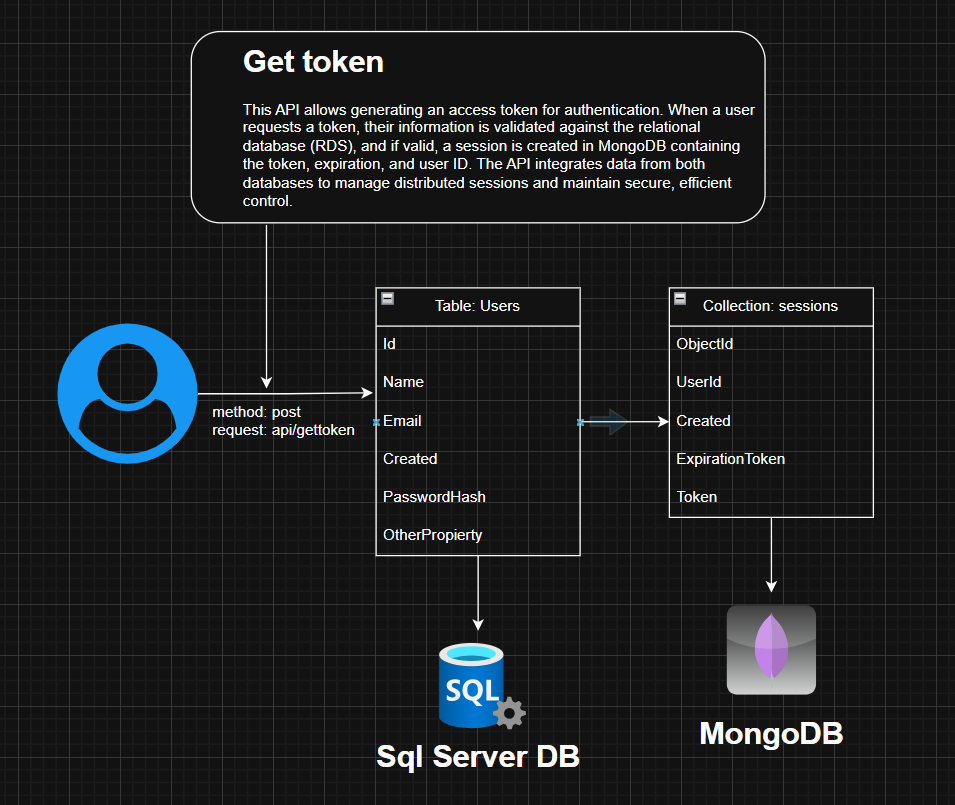
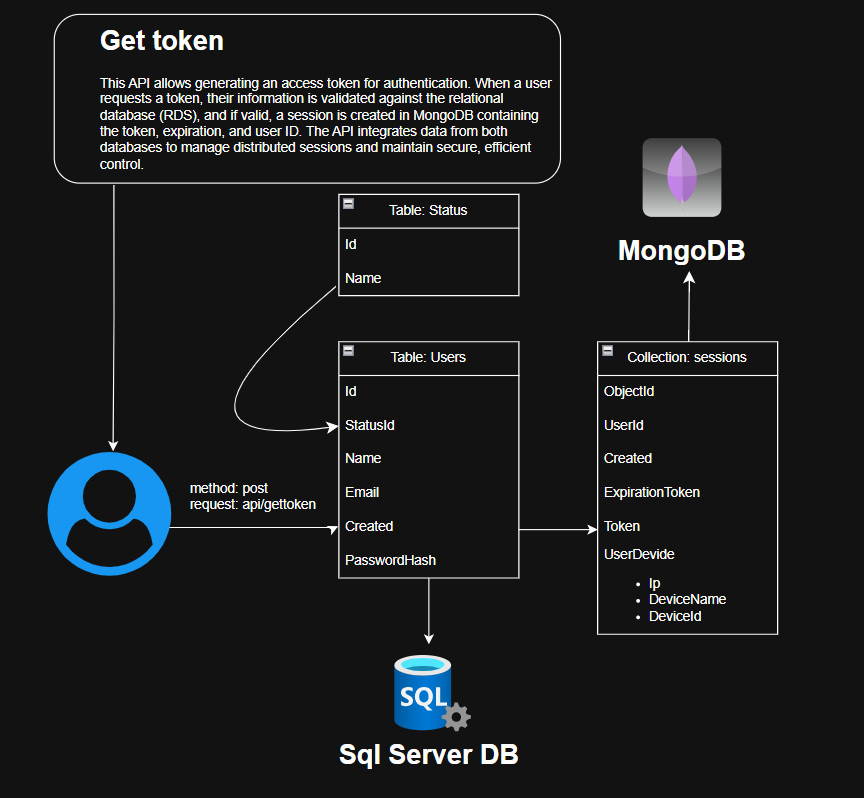
new diagram with the dbs, collection and tablases

diff --git a/Controllers/SecurityReviewController.cs b/Controllers/SecurityReviewController.cs
@@ -29,7 +29,7 @@ namespace UsersApi.Controllers
         [HttpGet("without-auth")]
         public async Task<IActionResult> GetMethodReviewTestThree()
         {
-            return Ok("It´s ok too!");
+            return Ok("It´s ok too (Authorization disabled)!");
         }
     }
 }